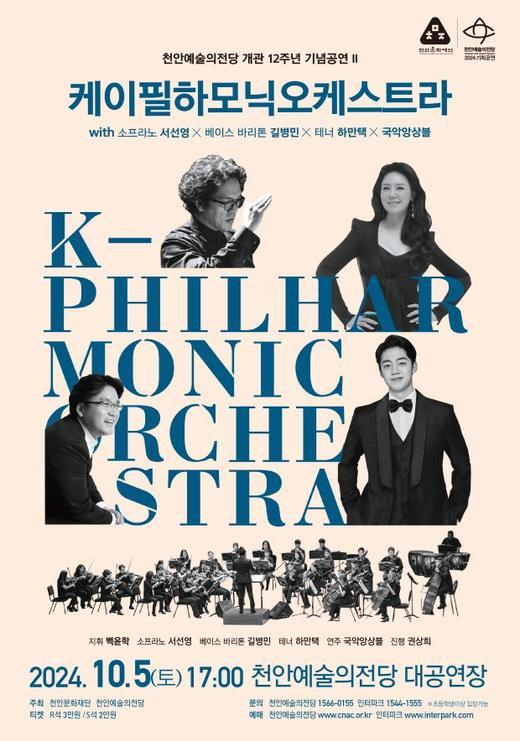
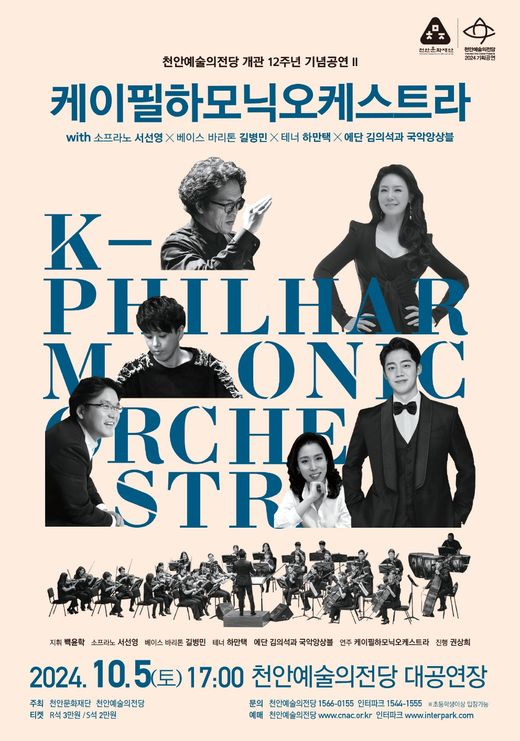
Add files via upload

Changed region(s): [[0.0615, 0.031, 0.9538, 0.9933], [0.8923, 0.031, 0.9538, 0.0931], [0.3385, 0.6829, 0.4, 0.7139]]

diff --git a/index.html b/index.html
@@ -524,6 +524,8 @@ form input:focus,form textarea:focus,form select:focus{box-shadow:0 0 0 4px rgba
 @media(max-width:1100px) and (min-width:821px){.node.lead{width:auto;min-width:150px;padding:12px 22px}}
 .band p{text-align:left;word-break:keep-all}
 @media(max-width:720px){.ftag{display:none}footer{padding-bottom:92px}.nav{background:#fff;backdrop-filter:none;-webkit-backdrop-filter:none}}
+.about .big.b2{margin-top:clamp(30px,3.6vw,48px)}
+.about .big{word-break:keep-all;text-align:left}
 </style>
 </head>
 <body class="lock">
@@ -605,7 +607,7 @@ form input:focus,form textarea:focus,form select:focus{box-shadow:0 0 0 4px rgba
 <div id="lb"><button class="x" aria-label="닫기">✕</button><button class="pv" aria-label="이전">‹</button><button class="nx" aria-label="다음">›</button><img alt=""><p></p></div>
 
 <script>
-const A={"P0": "assets/P0.jpg", "P1": "assets/P1.jpg", "P2": "assets/P2.jpg", "P3": "assets/P3.jpg", "P4": "assets/P4.jpg", "P5": "assets/P5.jpg", "P6": "assets/P6.jpg", "P7": "assets/P7.jpg", "P8": "assets/P8.jpg", "P9": "assets/P9.jpg", "P10": "assets/P10.jpg", "P11": "assets/P11.jpg", "P12": "assets/P12.jpg", "P13": "assets/P13.jpg", "P14": "assets/P14.jpg", "P15": "assets/P15.jpg", "P16": "assets/P16.jpg", "P17": "assets/P17.jpg", "P18": "assets/P18.jpg", "P19": "assets/P19.jpg", "P20": "assets/P20.jpg", "P21": "assets/P21.jpg", "P22": "assets/P22.jpg", "F0": "assets/F0.jpg", "F1": "assets/F1.jpg", "F2": "assets/F2.jpg", "F3": "assets/F3.jpg", "F4": "assets/F4.jpg", "F6": "assets/F6.jpg", "F7": "assets/F7.jpg", "F8": "assets/F8.jpg", "F9": "assets/F9.jpg", "F10": "assets/F10.jpg", "F12": "assets/F12.jpg", "F13": "assets/F13.jpg", "F14": "assets/F14.jpg", "F15": "assets/F15.jpg", "F16": "assets/F16.jpg", "F17": "assets/F17.jpg", "F18": "assets/F18.jpg", "F20": "assets/F20.jpg", "F22": "assets/F22.jpg", "F24": "assets/F24.jpg", "F25": "assets/F25.jpg", "F26": "assets/F26.jpg", "F27": "assets/F27.jpg", "F28": "assets/F28.jpg", "F29": "assets/F29.jpg", "F30": "assets/F30.jpg", "F31": "assets/F31.jpg", "G0": "assets/G0.jpg", "G1": "assets/G1.jpg", "G2": "assets/G2.jpg", "G3": "assets/G3.jpg", "G4": "assets/G4.jpg", "G5": "assets/G5.jpg", "G6": "assets/G6.jpg", "G7": "assets/G7.jpg", "kim": "assets/kim.jpg", "young": "assets/young.jpg", "yeo": "assets/yeo.jpg", "na": "assets/na.jpg", "logo": "assets/logo.png", "mark": "assets/mark.png"};
+const A={"P0": "assets/P0.jpg", "P1": "assets/P1.jpg", "P2": "assets/P2.jpg", "P3": "assets/P3.jpg", "P4": "assets/P4.jpg", "P5": "assets/P5.jpg", "P6": "assets/P6.jpg", "P7": "assets/P7.jpg", "P8": "assets/P8.jpg", "P9": "assets/P9.jpg", "P10": "assets/P10.jpg", "P11": "assets/P11.jpg", "P12": "assets/P12.jpg", "P13": "assets/P13.jpg", "P14": "assets/P14.jpg", "P15": "assets/P15.jpg", "P16": "assets/P16.jpg", "P17": "assets/P17.jpg", "P18": "assets/P18.jpg", "P19": "assets/P19.jpg", "P20": "assets/P20.jpg", "P21": "assets/P21.jpg", "P22": "assets/P22.jpg", "H0": "assets/H0.jpg", "H1": "assets/H1.jpg", "H2": "assets/H2.jpg", "H3": "assets/H3.jpg", "H4": "assets/H4.jpg", "H5": "assets/H5.jpg", "H6": "assets/H6.jpg", "H7": "assets/H7.jpg", "F0": "assets/F0.jpg", "F1": "assets/F1.jpg", "F2": "assets/F2.jpg", "F3": "assets/F3.jpg", "F4": "assets/F4.jpg", "F6": "assets/F6.jpg", "F7": "assets/F7.jpg", "F8": "assets/F8.jpg", "F9": "assets/F9.jpg", "F10": "assets/F10.jpg", "F12": "assets/F12.jpg", "F13": "assets/F13.jpg", "F14": "assets/F14.jpg", "F15": "assets/F15.jpg", "F16": "assets/F16.jpg", "F17": "assets/F17.jpg", "F18": "assets/F18.jpg", "F20": "assets/F20.jpg", "F22": "assets/F22.jpg", "F24": "assets/F24.jpg", "F25": "assets/F25.jpg", "F26": "assets/F26.jpg", "F27": "assets/F27.jpg", "F28": "assets/F28.jpg", "F29": "assets/F29.jpg", "F30": "assets/F30.jpg", "F31": "assets/F31.jpg", "G0": "assets/G0.jpg", "G1": "assets/G1.jpg", "G2": "assets/G2.jpg", "G3": "assets/G3.jpg", "G4": "assets/G4.jpg", "G5": "assets/G5.jpg", "G6": "assets/G6.jpg", "G7": "assets/G7.jpg", "kim": "assets/kim.jpg", "young": "assets/young.jpg", "yeo": "assets/yeo.jpg", "na": "assets/na.jpg", "logo": "assets/logo.png", "mark": "assets/mark.png"};
 /* ================= DATA ================= */
 // k:'m' = 연혁에만 표시되는 단체 이정표. p = 포스터, f = 공연 사진
 const SCH24='2024 송파구 학교로 찾아가는 오케스트라';
@@ -644,7 +646,7 @@ const E=[
 {d:'2024-06-27',t:'천안 케이필하모닉스트링 연주회 〈음중미담〉',v:'천안',c:'라클라쎄, 케이필하모닉스트링'},
 {d:'2024-06-28',t:'서울 케이필하모닉스트링 연주회',v:'숭실대학교 문화관'},
 {d:'2024-09-17',t:'청와대 연주회',v:'청와대'},
-{d:'2024-10-05',tm:'17:00',t:'천안예술의전당 개관 12주년 기념공연 Ⅱ — 케이필하모닉오케스트라',v:'천안예술의전당 대공연장',c:'진행 권상희 · 지휘 백윤학 · 소프라노 서선영, 베이스바리톤 길병민, 테너 하만택, 국악앙상블',p:'P12'},
+{d:'2024-10-05',tm:'17:00',t:'천안예술의전당 개관 12주년 기념공연 Ⅱ — 케이필하모닉오케스트라',v:'천안예술의전당 대공연장',c:'진행 권상희 · 지휘 백윤학 · 소프라노 서선영, 베이스바리톤 길병민, 테너 하만택, 예단 김의석과 국악앙상블',o:'주최 천안문화재단 · 천안예술의전당',p:'P12'},
 {d:'2024-10-11',tm:'19:30',t:'케이필하모닉오케스트라와 함께하는 다진 가을 음악회',v:'평택 서부문화예술회관 대공연장',c:'지휘 최선용 · 박형준, 김경희, 고아라, 오정해, 라클라쎄',o:'주최 ㈜다진 · 주관 케이필하모닉오케스트라',p:'P13'},
 {d:'2024-10-12',tm:'19:30',t:'2024 청와대 뮤직 페스티벌 — K-필하모닉오케스트라',v:'청와대 헬기장',c:'지휘 박해원 · 테너 박평준, 테너 김중일, 소프라노 정시영, 소프라노 이은희, 래퍼 청',p:'P10'},
 {d:'2024-10-31',tm:'19:30',t:'제5회 태안예술가곡제 — 태안에서 온 가을편지!',v:'태안군 문화예술회관 대공연장',c:'박인희와 함께',o:'주최 태안군 · 주관 케이필하모닉오케스트라',p:'P9'},
@@ -653,7 +655,7 @@ const E=[
 {d:'2025-04-22',tm:'19:00',t:'아름다운 세 남자의 봄 음악회',v:'청와대 본관',c:'소리꾼 김준수, 성악가 길병민, 래퍼 청',p:'P15'},
 {d:'2025-05-10',t:'청와대 연주회',v:'청와대 야외무대'},
 {d:'2025-09-06',tm:'15:00',t:'천안예술의전당 개관 13주년 기념공연 — 세 남자 이야기 with 케이필하모닉오케스트라',v:'천안예술의전당 대공연장',c:'진행 권상희 · 지휘 백윤학 · 테너 김민석, 바리톤 김기훈, 클래식 색소폰 브랜든 최',p:'P16'},
-{d:'2025-11-26',e:'2025-11-29',dl:'2025.11.26–27, 29',t:'도란도란 클래식 — 모차르트편',v:'영등포아트홀',c:'우리 아이 첫 클래식',o:'주최 영등포문화재단',p:'P14',f:['F25']},
+{d:'2025-11-26',e:'2025-11-29',dl:'2025.11.26–27, 29',t:'도란도란 클래식 — 모차르트편',v:'영등포아트홀',c:'우리 아이 첫 클래식',o:'주최 영등포문화재단',p:'P14',f:['H7','H0','H3','H5','H4','H1','H2','H6','F25']},
 {d:'2025-11-27',tm:'19:30',t:'제6회 태안예술가곡제 — 태안에서 온 가을편지! PART.Ⅱ',v:'태안군문화예술회관 대공연장',o:'주최 태안군 · 주관 케이필하모닉오케스트라',p:'P20'},
 {d:'2026-02-21',t:'겨울방학 어린이 클래식 여행 — 모차르트',v:'송파문화재단',f:['F24']},
 {d:'2026-06-09',t:SCH26+' — 오륜초등학교',v:'오륜초등학교'},
@@ -681,7 +683,7 @@ const PHOTOS=[];PAST.concat(LIVE).forEach(x=>(x.f||[]).forEach(k=>PHOTOS.push({k
 
 const PEOPLE=[
 {r:'대표 겸 단장',en:'CEO and General Manager',n:'김지향',img:'kim',b:['독일 베를린국립대학교 Diplom (의상 디자인 전공)','독일 Maskenbildner Meister Diplom (특수분장 전공)','라무지카 대표 역임','웨스턴심포니오케스트라 단장 역임','국내 음악회 기획 및 정기 연주회 개최','(현) 케이필하모닉오케스트라 단장']},
-{r:'상임지휘자',en:'Principal Conductor',n:'김영준',img:'young',b:['한국예술종합학교 지휘과 예술사 · 예술전문사','차이코프스키 음악원 오케스트라 지휘 전문연주자과정','과천시립아카데미오케스트라 · 과천시립교향악단 부지휘자','(현) 케이필하모닉오케스트라 지휘자']},
+{r:'지휘자',en:'Conductor',n:'김영준',img:'young',b:['한국예술종합학교 지휘과 예술사 · 예술전문사','차이코프스키 음악원 오케스트라 지휘 전문연주자과정','과천시립아카데미오케스트라 · 과천시립교향악단 부지휘자','(현) 케이필하모닉오케스트라 지휘자']},
 {r:'단무장',en:'Orchestra Manager',n:'여가영',img:'yeo',b:['베를린 국립음악대학교 “Hanns Eisler” Diplom 및 Konzertexamen 수석 졸업','비엔나 국제 콩쿨 입상 및 특별상 수상','국내외 주요 교향악단과 협연','(현) 한세대 겸임교수, 협성대 · 나사렛대 외래교수']},
 {r:'악장',en:'Concertmaster',n:'나승준',img:'na',b:['연세대학교 학사','드레스덴 국립음대 Master','뷔르츠부르크 국립음대 Meisterklasse','자브뤼켄 국립음대 실내악 Konzertexamen 졸업','(현) 케이필하모닉오케스트라 악장']},
 {r:'국장',en:'Executive Director',n:'김지현',img:'',b:[]},
@@ -716,7 +718,10 @@ const NOTICE=[];
 const VIDEOS=[
 {id:'kgt1NdiDvS4',d:'2025.11.27',t:'제6회 태안예술가곡제',v:'태안군문화예술회관'},
 {id:'s9TawhtY_QI',d:'2025.11.27',t:'도란도란 클래식 — 모차르트편',v:'영등포아트홀'},
-{id:'QAukRsZ7pfw',d:'2025.09.06',t:'세 남자 이야기 with 케이필하모닉오케스트라 — 하이라이트',v:'천안예술의전당'}
+{id:'QAukRsZ7pfw',d:'2025.09.06',t:'세 남자 이야기 with 케이필하모닉오케스트라 — 하이라이트',v:'천안예술의전당'},
+{id:'MqNGkrh1U04',d:'2024.10.05',t:'천안예술의전당 개관 12주년 기념공연 Ⅱ — 스케치',v:'천안예술의전당'},
+{id:'SueR_yd6qVg',d:'2024.10.05',t:'천안예술의전당 개관 12주년 기념공연 Ⅱ — 공연 1부',v:'천안예술의전당'},
+{id:'klZjPtrQuDE',d:'2024.10.05',t:'천안예술의전당 개관 12주년 기념공연 Ⅱ — 공연 2부',v:'천안예술의전당'}
 ];
 const INQ_MAIL='leejisun99@naver.com';
 // 메인 화면 배경 영상: mp4 파일 경로(예: 'main.mp4')를 넣으면 첫 화면이 영상으로 바뀝니다. 비워 두면 사진이 나옵니다.
@@ -769,21 +774,22 @@ function pgHome(){
     <div class="vgrid">${VIDEOS.slice(0,4).map((v,i)=>`<button class="vc rv" style="--d:${i*.06}s" data-vid="${i}"><div class="im"><img loading="lazy" src="https://i.ytimg.com/vi/${v.id}/hqdefault.jpg" alt="" onerror="this.remove()"></div><div class="d">${v.d}</div><div class="t">${esc(v.t)}</div><div class="v">${esc(v.v||'')}</div></button>`).join('')}</div>
   </div></section>
   <section class="blk cream"><div class="wrap about">
-    <div class="rv"><p class="big">2018년 창단 이래,<br><em>K-클래식</em>의 부흥과 발전을 이끄는<br>민간 오케스트라</p>
-      <p>국내외 최고의 연주자와 신인 연주자가 함께 성장하는 무대, 사회적 약자를 위한 좌석 나눔과 공연 기부로 클래식의 저변을 넓혀 갑니다.</p>
+    <div class="rv"><p class="big">지역사회와 호흡하며<br>음악으로 세상에 온기를 전하는<br><em>K-필하모닉 오케스트라</em></p>
+      <p>K-필하모닉 오케스트라는 클래식 음악의 높은 문턱을 낮추고, 누구나 일상 속에서 문화적 감동을 누릴 수 있도록 앞장서는 전문 예술 단체입니다.</p>
       <div style="margin-top:22px"><a class="pill dark" href="#/about">오케스트라 소개</a></div></div>
     <div class="ph2 rv" style="--d:.12s;aspect-ratio:3/2"><img loading="lazy" src="${A.G5}" alt="케이필하모닉오케스트라"></div>
   </div></section>
   <section class="blk"><div class="wrap"><div class="band rv"><div><h2>음악으로 꿈꾸는 아름다운 세상,<br>후원으로 함께해 주세요</h2><p>여러분의 후원은 더 많은 관객에게 클래식을 전하는 힘이 됩니다.</p></div><a class="pill white" href="#/support">후원회 가입 안내 →</a></div></div></section>`;
 }
 function pgAbout(){
-  return head('오케스트라 소개','오케스트라 소개','K-필하모닉오케스트라(KPO)는 좋은 음악으로 청중의, 청중에 의한, 청중을 위한 장을 만들어 갑니다.')+
+  return head('오케스트라 소개','오케스트라 소개','')+
   `<section class="blk" style="padding-top:20px"><div class="wrap about">
-    <div class="rv"><p class="big">“좋은 음악으로 <em>청중의, 청중에 의한, 청중을 위한</em>” 무대</p>
-    <p>김지향 단장은 대한민국의 민간오케스트라로서 K-필하모닉오케스트라의 브랜드 가치를 드높이고 창출하며, 우리의 연주자는 물론 단원 모두에게 ‘좋은 음악으로 청중의, 청중에 의한, 청중을 위한’ 장을 만들어 나가고자 최선의 노력을 기울이고 있다.</p>
-    <p>K-필하모닉오케스트라는 2018년 창단되어 국내외 최고의 권위를 자랑하는 연주자를 비롯하여 신인 연주자를 발굴, 국내 정상급으로 성장을 도모하며, 국내외 다양한 문화교류를 통해 K-클래식을 부흥시키고 그 발전의 견인차로서 음악계의 한류를 선도하고 있다.</p>
-    <p>그동안 세종문화예술회관, 구미문화예술회관, 경주예술의전당, 광주문화예술회관, 안동문화예술의전당, 천안예술의전당, 청와대 연주회 등 다양한 콘서트 및 태안가곡제를 통해 한국 창작 가곡의 발전 및 활성화에 노력을 기울이고 있다.</p>
-    <p>또한 사회적 약자를 위해 공연마다 좌석을 마련하는 등 지속적인 공연 기부 활동으로 사회에 환원, 클래식 저변확대에 책임을 다하며 클래식 음악의 새로운 변화를 주도함으로써 가장 주목받는 오케스트라로 성장하고 있다.</p></div>
+    <div class="rv"><p class="big">지역사회와 호흡하며 음악으로 세상에 온기를 전하는 <em>K-필하모닉 오케스트라</em></p>
+    <p>K-필하모닉 오케스트라는 클래식 음악의 높은 문턱을 낮추고, 누구나 일상 속에서 문화적 감동을 누릴 수 있도록 앞장서는 전문 예술 단체입니다. 정통 클래식의 깊이 있는 예술성을 바탕으로 세대와 계층을 아우르는 대중적이고 친근한 프로그램을 기획하며, 전국의 문화 소외지역과 학교, 지역 축제를 찾아가는 활발한 연주 활동을 펼치고 있습니다.</p>
+    <p>특히 최고의 기량을 갖춘 연주자들과 완성도 높은 편곡을 통해 단순한 음악 감상을 넘어선 치유와 화합의 장을 만들어갑니다. 음악을 통한 선한 영향력으로 지역 주민과 청년들에게 희망의 메시지를 전하며, 대한민국 클래식 대중화의 새로운 지평을 열어가는 오케스트라입니다.</p>
+    <p class="big b2">압도적인 앙상블과 깊은 울림으로 감동을 디자인하는 <em>K-필하모닉 오케스트라</em></p>
+    <p>K-필하모닉 오케스트라는 국내외 유수의 무대에서 활약하며 탄탄한 실력을 인정받은 전문 연주자들로 구성된 오케스트라입니다. 오페라, 교향곡부터 크로스오버와 대중음악 협업에 이르기까지 장르를 넘나드는 폭넓은 레퍼토리를 소화하며 독창적이고 세련된 무대를 선보이고 있습니다.</p>
+    <p>정교한 하모니와 다채로운 스토리텔링이 있는 기획력을 바탕으로 관객과 깊이 교감하며, 매 공연마다 찬사와 감동을 이끌어내고 있습니다. 끊임없는 도전과 예술적 완성도를 향한 열정으로 클래식 음악의 진정한 가치를 전달하는 대한민국 대표 오케스트라입니다.</p></div>
     <div class="ph2 rv" style="--d:.15s"><img src="${A.G4}" alt="케이필하모닉오케스트라 연주 모습"></div>
   </div>
   </section>
